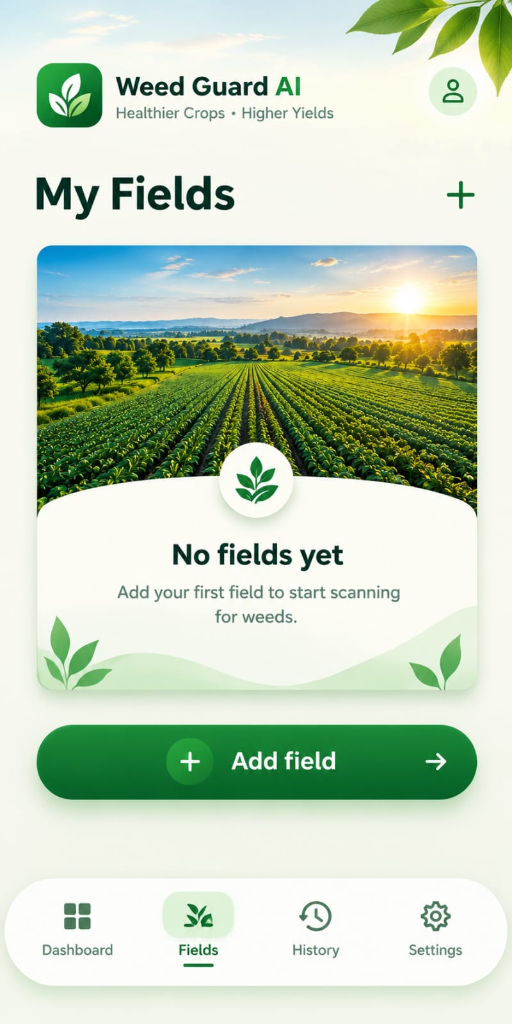
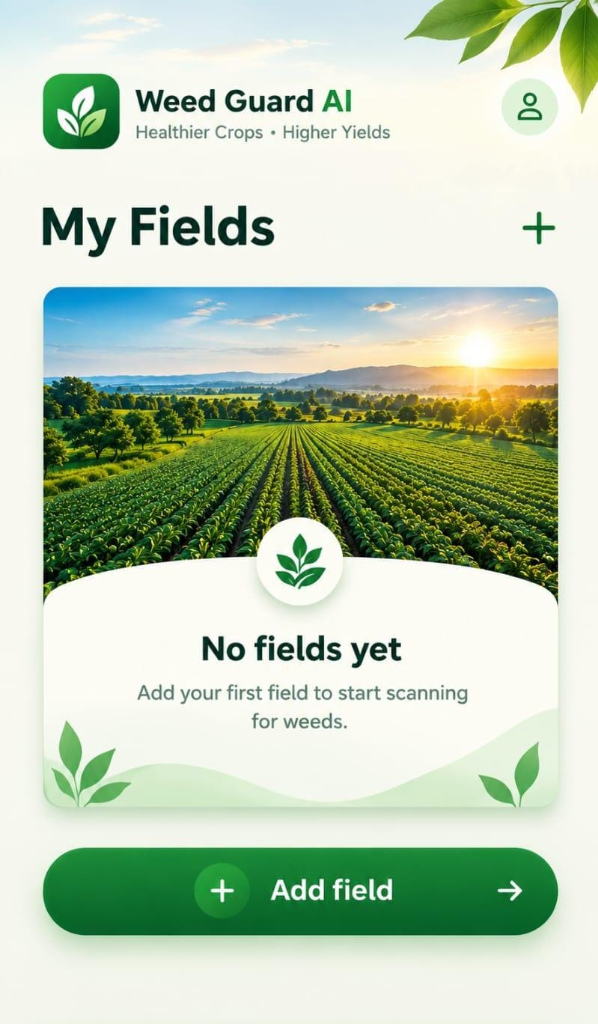
Save uploaded fields_template.png and integrate with full responsive screen fit and interactive buttons

diff --git a/lib/features/fields/presentation/screens/fields_list_screen.dart b/lib/features/fields/presentation/screens/fields_list_screen.dart
@@ -44,6 +44,15 @@ class _FieldsListScreenState extends ConsumerState<FieldsListScreen> {
             onRetry: () => ref.invalidate(fieldsProvider),
           ),
           data: (fields) {
+            if (fields.isEmpty) {
+              return _FieldsTemplateEmptyScreen(
+                onAdd: () async {
+                  await context.push('/fields/new');
+                  ref.invalidate(fieldsProvider);
+                },
+                onProfile: () => context.push('/profile'),
+              );
+            }
             return RefreshIndicator(
               onRefresh: () async => ref.invalidate(fieldsProvider),
               child: CustomScrollView(
@@ -143,17 +152,6 @@ class _FieldsListScreenState extends ConsumerState<FieldsListScreen> {
                       ),
                     ),
                   ),
-                  if (fields.isEmpty)
-                    SliverFillRemaining(
-                      hasScrollBody: false,
-                      child: _FieldsEmptyState(
-                        onAdd: () async {
-                          await context.push('/fields/new');
-                          ref.invalidate(fieldsProvider);
-                        },
-                      ),
-                    )
-                  else ...[
                     SliverPadding(
                       padding: const EdgeInsets.fromLTRB(16, 4, 16, 16),
                       sliver: SliverList(
@@ -192,165 +190,73 @@ class _FieldsListScreenState extends ConsumerState<FieldsListScreen> {
   }
 }
 
-class _FieldsEmptyState extends StatelessWidget {
+class _FieldsTemplateEmptyScreen extends StatelessWidget {
   final VoidCallback onAdd;
-  const _FieldsEmptyState({required this.onAdd});
+  final VoidCallback onProfile;
+  const _FieldsTemplateEmptyScreen({required this.onAdd, required this.onProfile});
 
   @override
   Widget build(BuildContext context) {
-    return SingleChildScrollView(
-      physics: const AlwaysScrollableScrollPhysics(),
-      child: Padding(
-        padding: const EdgeInsets.fromLTRB(16, 4, 16, 24),
-        child: Column(
-          children: [
-            // Card matching the template perfectly
-            Container(
-              width: double.infinity,
-              decoration: BoxDecoration(
-                color: Colors.white,
-                borderRadius: BorderRadius.circular(24),
-                boxShadow: [
-                  BoxShadow(
-                    color: Colors.black.withOpacity(0.06),
-                    blurRadius: 18,
-                    offset: const Offset(0, 6),
-                  ),
-                ],
-              ),
-              clipBehavior: Clip.antiAlias,
-              child: Column(
+    return LayoutBuilder(
+      builder: (context, constraints) {
+        return SingleChildScrollView(
+          physics: const AlwaysScrollableScrollPhysics(),
+          child: ConstrainedBox(
+            constraints: BoxConstraints(minHeight: constraints.maxHeight),
+            child: IntrinsicHeight(
+              child: Stack(
                 children: [
-                  // Beautiful landscape field header
-                  Stack(
-                    alignment: Alignment.bottomCenter,
-                    clipBehavior: Clip.none,
-                    children: [
-                      Container(
-                        height: 240,
-                        width: double.infinity,
-                        decoration: const BoxDecoration(
-                          image: DecorationImage(
-                            image: AssetImage('assets/images/fields_hero.png'),
-                            fit: BoxFit.cover,
-                          ),
-                        ),
-                      ),
-                      // Floating circular leaf badge in center
-                      Positioned(
-                        bottom: -30,
-                        child: Container(
-                          width: 68,
-                          height: 68,
-                          decoration: BoxDecoration(
-                            color: Colors.white,
-                            shape: BoxShape.circle,
-                            boxShadow: [
-                              BoxShadow(
-                                color: Colors.black.withOpacity(0.10),
-                                blurRadius: 12,
-                                offset: const Offset(0, 4),
-                              ),
-                            ],
-                          ),
-                          child: Center(
-                            child: Container(
-                              width: 50,
-                              height: 50,
-                              decoration: const BoxDecoration(
-                                color: Color(0xFFE8F5E9),
-                                shape: BoxShape.circle,
-                              ),
-                              child: const Icon(
-                                Icons.eco,
-                                color: Color(0xFF2D6A4F),
-                                size: 30,
-                              ),
-                            ),
-                          ),
-                        ),
-                      ),
-                    ],
+                  // Template image perfectly scaled to width with natural aspect ratio
+                  Image.asset(
+                    'assets/images/fields_template.png',
+                    width: double.infinity,
+                    fit: BoxFit.fitWidth,
                   ),
-                  const SizedBox(height: 42),
-                  // "No fields yet" text
-                  const Text(
-                    'No fields yet',
-                    style: TextStyle(
-                      fontSize: 22,
-                      fontWeight: FontWeight.w800,
-                      color: Color(0xFF1B4332),
-                      letterSpacing: -0.3,
+
+                  // Top right Profile avatar tap zone
+                  Positioned(
+                    top: 14,
+                    right: 18,
+                    width: 50,
+                    height: 50,
+                    child: GestureDetector(
+                      behavior: HitTestBehavior.translucent,
+                      onTap: onProfile,
+                      child: const SizedBox.expand(),
                     ),
                   ),
-                  const SizedBox(height: 8),
-                  Padding(
-                    padding: const EdgeInsets.symmetric(horizontal: 32),
-                    child: Text(
-                      'Add your first field to start scanning for weeds.',
-                      textAlign: TextAlign.center,
-                      style: TextStyle(
-                        fontSize: 14,
-                        fontWeight: FontWeight.w500,
-                        color: Colors.grey.shade600,
-                        height: 1.4,
-                      ),
+
+                  // Header '+' Add field icon tap zone
+                  Positioned(
+                    top: 86,
+                    right: 18,
+                    width: 50,
+                    height: 50,
+                    child: GestureDetector(
+                      behavior: HitTestBehavior.translucent,
+                      onTap: onAdd,
+                      child: const SizedBox.expand(),
                     ),
                   ),
-                  const SizedBox(height: 28),
+
+                  // "Add field" bottom pill button tap zone
+                  Positioned(
+                    left: 20,
+                    right: 20,
+                    bottom: 24,
+                    height: 72,
+                    child: GestureDetector(
+                      behavior: HitTestBehavior.translucent,
+                      onTap: onAdd,
+                      child: const SizedBox.expand(),
+                    ),
+                  ),
                 ],
               ),
             ),
-            const SizedBox(height: 24),
-            // Primary green action button matching the template: (+) Add field ->
-            SizedBox(
-              width: double.infinity,
-              height: 56,
-              child: ElevatedButton(
-                onPressed: onAdd,
-                style: ElevatedButton.styleFrom(
-                  backgroundColor: const Color(0xFF1B5E20),
-                  foregroundColor: Colors.white,
-                  elevation: 4,
-                  shadowColor: const Color(0xFF1B5E20).withOpacity(0.4),
-                  shape: RoundedRectangleBorder(
-                    borderRadius: BorderRadius.circular(28),
-                  ),
-                  padding: const EdgeInsets.symmetric(horizontal: 24),
-                ),
-                child: Row(
-                  mainAxisAlignment: MainAxisAlignment.spaceBetween,
-                  children: [
-                    Row(
-                      children: [
-                        Container(
-                          width: 32,
-                          height: 32,
-                          decoration: BoxDecoration(
-                            color: Colors.white.withOpacity(0.2),
-                            shape: BoxShape.circle,
-                          ),
-                          child: const Icon(Icons.add, size: 20, color: Colors.white),
-                        ),
-                        const SizedBox(width: 14),
-                        const Text(
-                          'Add field',
-                          style: TextStyle(
-                            fontSize: 16,
-                            fontWeight: FontWeight.w700,
-                            letterSpacing: 0.2,
-                          ),
-                        ),
-                      ],
-                    ),
-                    const Icon(Icons.arrow_forward_rounded, size: 20, color: Colors.white),
-                  ],
-                ),
-              ),
-            ),
-          ],
-        ),
-      ),
+          ),
+        );
+      },
     );
   }
 }

diff --git a/lib/features/fields/presentation/screens/create_field_screen.dart b/lib/features/fields/presentation/screens/create_field_screen.dart
@@ -158,8 +158,9 @@ class _CreateFieldScreenState extends State<CreateFieldScreen> {
                         width: double.infinity,
                         decoration: const BoxDecoration(
                           image: DecorationImage(
-                            image: AssetImage('assets/images/add_field_header.png'),
+                            image: AssetImage('assets/images/add_field_template.png'),
                             fit: BoxFit.cover,
+                            alignment: Alignment.topCenter,
                           ),
                         ),
                       ),
